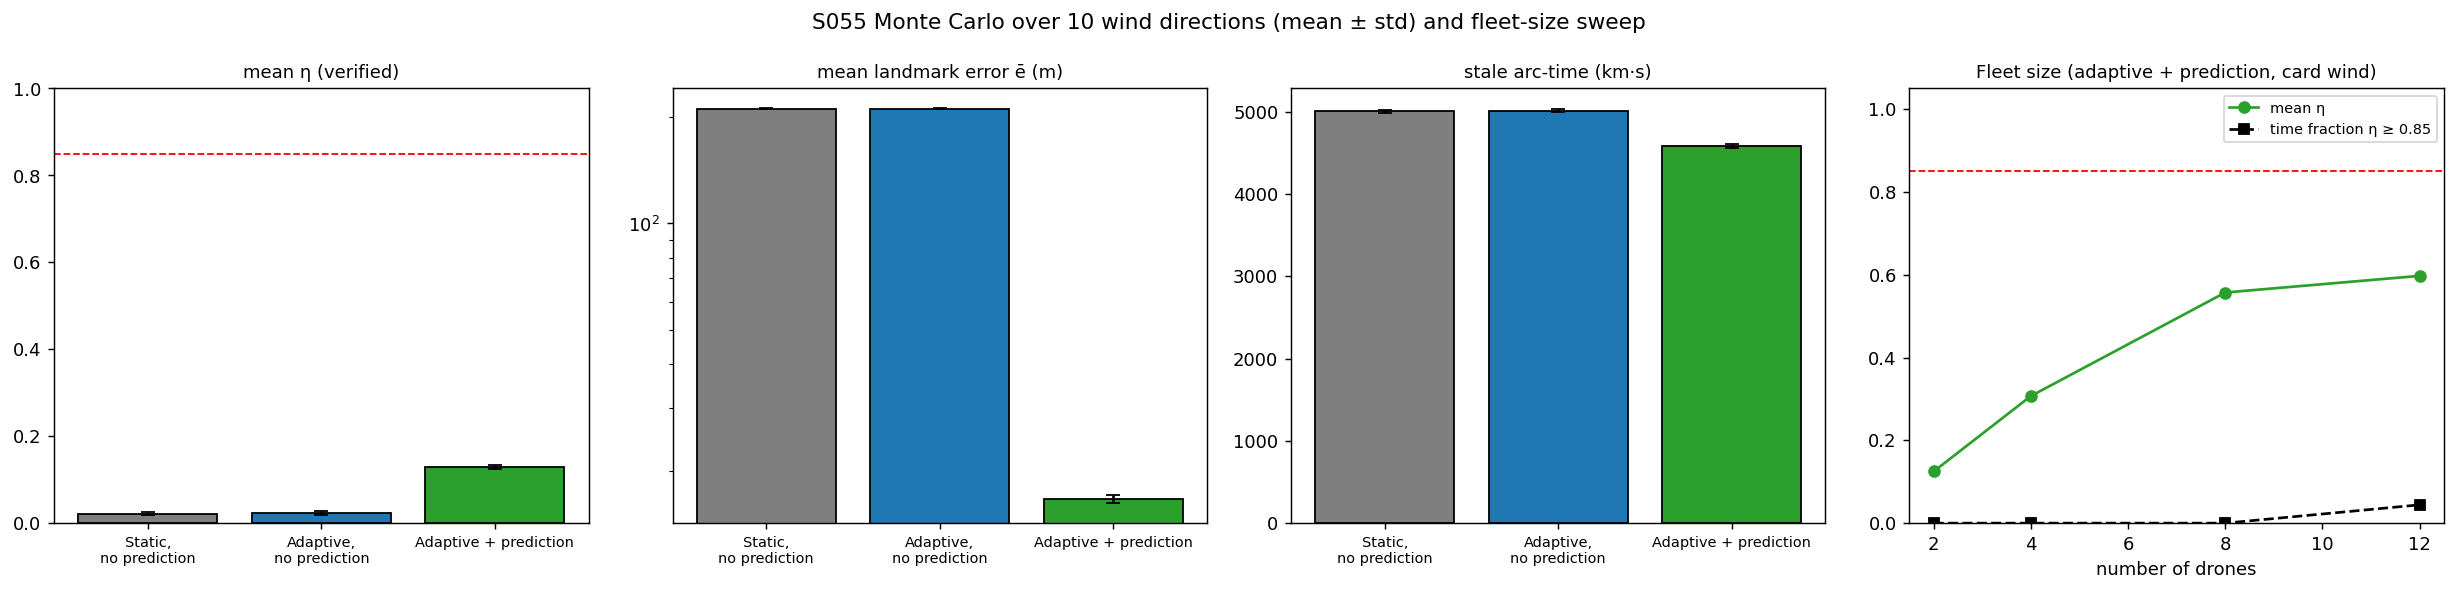
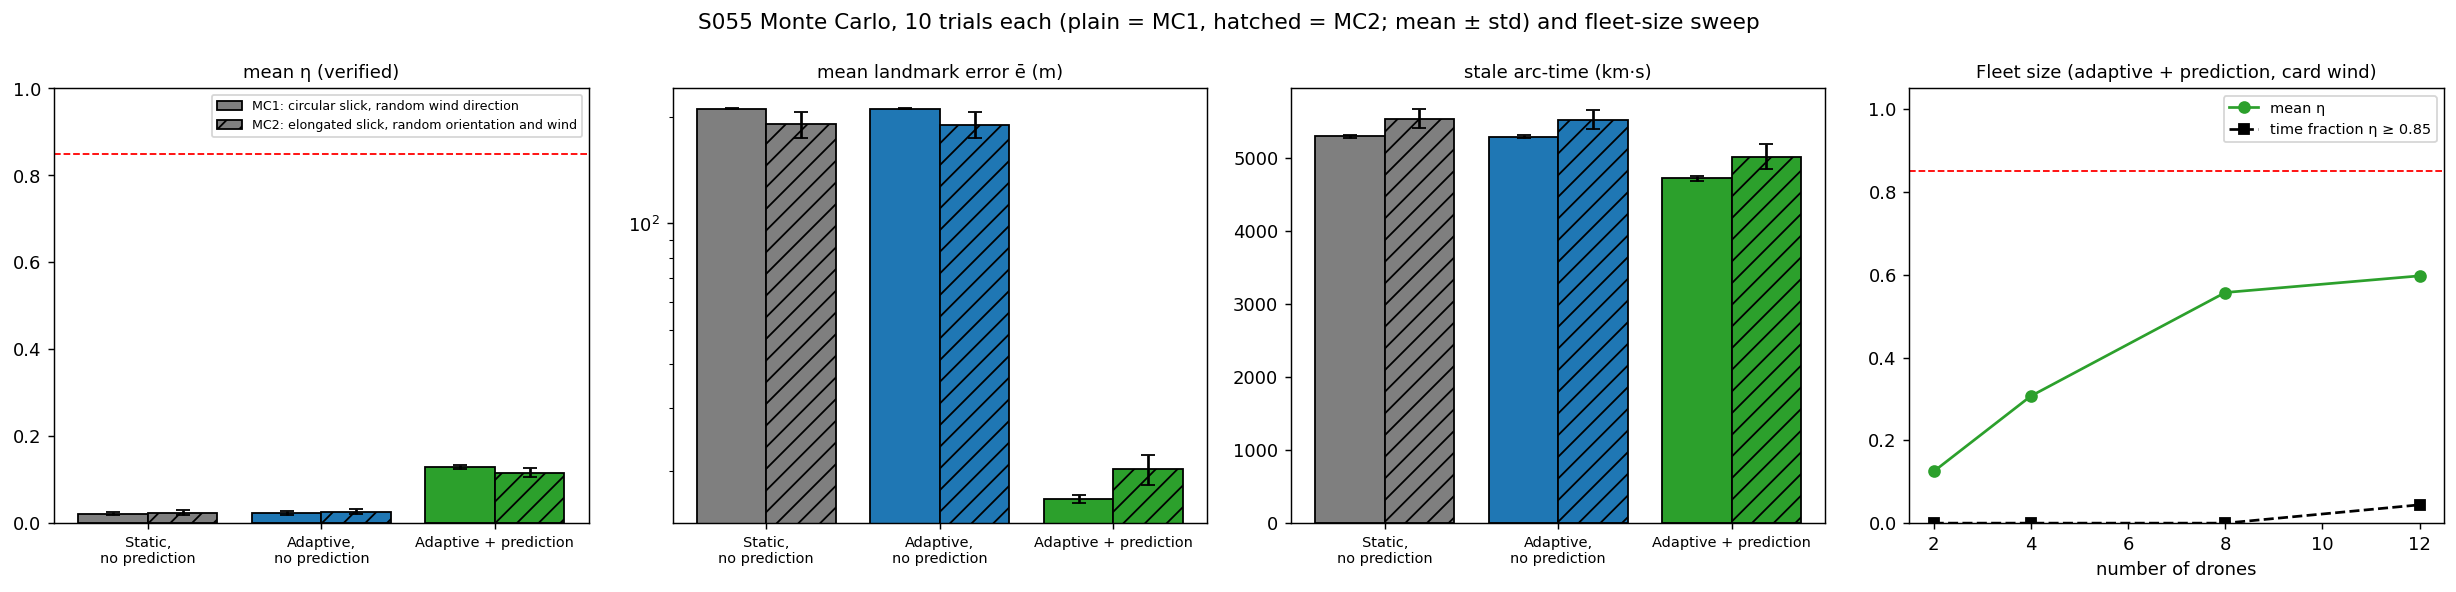
Fix S055 Coastline Oil Spill Tracking: address review follow-ups

diff --git a/src/03_environmental_sar/s055_oil_spill.py b/src/03_environmental_sar/s055_oil_spill.py
@@ -82,9 +82,13 @@ XS = (np.arange(GRID_N) + 0.5) * H_CELL
 
 # ── Spill field ───────────────────────────────────────────────────────────────
 
-def init_field():
+def init_field(shape=(1.0, 0.0)):
+    """Gaussian patch; shape = (axis factor f, orientation) gives semi-axes R0*f and R0/f."""
+    f, ang = shape
     X, Y = np.meshgrid(XS, XS, indexing='ij')                 # C[i, j]: i -> x, j -> y
-    return C0 * np.exp(-((X - X0[0]) ** 2 + (Y - X0[1]) ** 2) / (2 * R0 ** 2))
+    u = (X - X0[0]) * np.cos(ang) + (Y - X0[1]) * np.sin(ang)
+    w = -(X - X0[0]) * np.sin(ang) + (Y - X0[1]) * np.cos(ang)
+    return C0 * np.exp(-(u ** 2 / (2 * (R0 * f) ** 2) + w ** 2 / (2 * (R0 / f) ** 2)))
 
 
 def advance_field(C, u):
@@ -288,8 +292,8 @@ class Strategy:
         return float(np.sum(seg * ((t - last) <= T_STALE)) / np.sum(seg))
 
 
-def run_trial(u, rng_seed, sweep=False, record=False):
-    C = init_field()
+def run_trial(u, rng_seed, sweep=False, record=False, shape=(1.0, 0.0)):
+    C = init_field(shape)
     lm0 = resample_closed(truth_contour(C), N_LANDMARKS)
     configs = [(s, N_DRONES) for s in STRATS]
     if sweep:
@@ -355,7 +359,7 @@ def summarise(st):
         'eta_mean': float(lg['eta'].mean()), 'eta_nom_mean': float(lg['eta_nom'].mean()),
         'eta_frac_ok': float(np.mean(lg['eta'] >= ETA_TARGET)),
         'err_mean': float(lg['err'].mean()), 'err_final': float(lg['err'][-1]),
-        'stale_kms': float(np.sum((1 - lg['eta']) * lg['per_est']) * dt / 1000.0),
+        'stale_kms': float(np.sum((1 - lg['eta']) * lg['per_true']) * dt / 1000.0),
         'per_err_final': float(lg['per_est'][-1] - lg['per_true'][-1]),
         'n_meas': st.n_meas,
     }
@@ -374,7 +378,17 @@ def run_simulation():
         st, _, _ = run_trial(u, 100 + i)
         for s in STRATS:
             mc[s].append(summarise(st[(s, N_DRONES)]))
-    return main, sweep, mc, frames, true_log, angles
+    # second Monte Carlo: elongated slicks (breaks the rotational symmetry of the first one)
+    rng2 = np.random.default_rng(56)
+    shapes = [(float(rng2.uniform(1.0, 1.5)), float(rng2.uniform(0, np.pi)),
+               float(rng2.uniform(0, 2 * np.pi))) for _ in range(N_TRIALS)]
+    mc2 = {s: [] for s in STRATS}
+    for i, (f, ang, a) in enumerate(shapes):
+        u = speed * np.array([np.cos(a), np.sin(a)])
+        st, _, _ = run_trial(u, 200 + i, shape=(f, ang))
+        for s in STRATS:
+            mc2[s].append(summarise(st[(s, N_DRONES)]))
+    return main, sweep, (mc, mc2, shapes), frames, true_log, angles
 
 
 # ── Plotting ──────────────────────────────────────────────────────────────────
@@ -482,20 +496,26 @@ def plot_error(main, out_dir):
     _save(fig, out_dir, 'estimation_error.png')
 
 
-def plot_mc(mc, sweep, out_dir):
+def plot_mc(mc, mc2, sweep, out_dir):
     fig, axes = plt.subplots(1, 4, figsize=(19, 4.6))
     keys = [('eta_mean', 'mean η (verified)'), ('err_mean', 'mean landmark error ē (m)'),
             ('stale_kms', 'stale arc-time (km·s)')]
     for ax, (k, lab) in zip(axes[:3], keys):
         vals = [np.array([r[k] for r in mc[s]]) for s in STRATS]
-        ax.bar(range(3), [v.mean() for v in vals], yerr=[v.std() for v in vals],
-               color=[COLORS[s] for s in STRATS], edgecolor='k', capsize=4)
+        vals2 = [np.array([r[k] for r in mc2[s]]) for s in STRATS]
+        ax.bar(np.arange(3) - 0.2, [v.mean() for v in vals], 0.4, yerr=[v.std() for v in vals],
+               color=[COLORS[s] for s in STRATS], edgecolor='k', capsize=4,
+               label='MC1: circular slick, random wind direction')
+        ax.bar(np.arange(3) + 0.2, [v.mean() for v in vals2], 0.4, yerr=[v.std() for v in vals2],
+               color=[COLORS[s] for s in STRATS], edgecolor='k', hatch='//', capsize=4,
+               label='MC2: elongated slick, random orientation and wind')
         ax.set_xticks(range(3))
         ax.set_xticklabels([LABELS[s].replace(', ', ',\n') for s in STRATS], fontsize=8)
         ax.set_title(lab, fontsize=10)
         if k == 'eta_mean':
             ax.axhline(ETA_TARGET, color='red', ls='--', lw=1)
             ax.set_ylim(0, 1)
+            ax.legend(fontsize=7)
         if k == 'err_mean':
             ax.set_yscale('log')
     ks = sorted(sweep)
@@ -506,7 +526,7 @@ def plot_mc(mc, sweep, out_dir):
     axes[3].set_ylim(0, 1.05)
     axes[3].legend(fontsize=8)
     axes[3].set_title('Fleet size (adaptive + prediction, card wind)', fontsize=10)
-    fig.suptitle(f'S055 Monte Carlo over {N_TRIALS} wind directions (mean ± std) and fleet-size sweep')
+    fig.suptitle(f'S055 Monte Carlo, {N_TRIALS} trials each (plain = MC1, hatched = MC2; mean ± std) and fleet-size sweep')
     plt.tight_layout()
     _save(fig, out_dir, 'mc_comparison.png')
 
@@ -576,7 +596,7 @@ def save_animation(frames, main, out_dir):
 
 
 if __name__ == '__main__':
-    main, sweep, mc, frames, true_log, angles = run_simulation()
+    main, sweep, (mc, mc2, shapes), frames, true_log, angles = run_simulation()
     C = init_field()
     r_b0 = R0 * np.sqrt(2 * np.log(C0 / C_THR))
     sig_f = np.sqrt(R0 ** 2 + 2 * D_DIFF * T_MISSION)
@@ -592,9 +612,15 @@ if __name__ == '__main__':
     zz_factor = float(np.sum(np.linalg.norm(np.diff(zz, axis=0), axis=1)) / 1000.0)
     per = true_log[0][1]
     print(f'  Zig-zag path factor {zz_factor:.3f} -> along-boundary speed {V_ARC / zz_factor:.2f} m/s')
+    per1 = true_log[-1][1]
+    need = lambda P, v: ETA_TARGET * P / (v * T_STALE)
     print(f'  Fresh arc per drone in T_stale: {V_ARC / zz_factor * T_STALE:.0f} m; '
-          f'drones needed for eta = 0.85 on a {per:.0f} m boundary (one pass in T_stale): '
-          f'{ETA_TARGET * per / (V_ARC / zz_factor * T_STALE):.1f}')
+          f'drones needed for eta = 0.85 (one pass in T_stale): with the zig-zag '
+          f'{need(per, V_ARC / zz_factor):.1f} (t = 0 perimeter {per:.0f} m) to '
+          f'{need(per1, V_ARC / zz_factor):.1f} (final {per1:.0f} m); at the full {V_ARC:.0f} m/s without '
+          f'zig-zag {need(per, V_ARC):.1f} to {need(per1, V_ARC):.1f}')
+    print(f'  Drift per replanning epoch {np.linalg.norm(U_CARD) * T_REPLAN:.1f} m; '
+          f'half the t = 0 perimeter (one drone arc) {per / 2:.0f} m')
     print(f'  Random-walk filter process noise sigma_q = |u| sqrt(T_replan) = {SIGMA_Q_RW:.2f} m/s^0.5')
     print('  [Card wind, 2 drones]')
     for s in STRATS:
@@ -615,6 +641,21 @@ if __name__ == '__main__':
               f"crossings {a['n_meas'].mean():.0f}, mean error > {ZZ_AMP:.0f} m in "
               f"{int(np.sum(np.isfinite(a['t_lost'])))}/{N_TRIALS} trials "
               f"(first at {np.nanmean(a['t_lost']) if np.isfinite(a['t_lost']).any() else np.nan:.0f} s on average)")
+    print(f'  Monte Carlo 2 ({N_TRIALS} elongated slicks, axis factor U(1, 1.5), random orientation '
+          f'and wind direction):')
+    for s in STRATS:
+        a = {k: np.array([r[k] for r in mc2[s]]) for k in mc2[s][0]}
+        print(f"    {LABELS[s]:25s} eta {a['eta_mean'].mean():.3f} +- {a['eta_mean'].std():.3f}, "
+              f"error {a['err_mean'].mean():.1f} +- {a['err_mean'].std():.1f} m "
+              f"(final {a['err_final'].mean():.1f} +- {a['err_final'].std():.1f}), "
+              f"stale {a['stale_kms'].mean():.0f} +- {a['stale_kms'].std():.0f} km*s, "
+              f"crossings {a['n_meas'].mean():.0f}")
+    e2 = np.array([[r['err_mean'] for r in mc2[s]] for s in STRATS])
+    print('  MC2 lowest mean error: ' + ', '.join(f'{LABELS[s]} {int(np.sum(np.argmin(e2, 0) == i))}'
+                                                  for i, s in enumerate(STRATS)) + f' of {N_TRIALS}')
+    r_err = np.array([r['err_mean'] for r in mc['adaptive']]).mean() / \
+        np.array([r['err_mean'] for r in mc['predict']]).mean()
+    print(f'  MC1 mean error ratio adaptive (no prediction) / prediction: {r_err:.1f}x')
     e = np.array([[r['err_mean'] for r in mc[s]] for s in STRATS])
     h = np.array([[r['eta_mean'] for r in mc[s]] for s in STRATS])
     print('  Lowest mean error: ' + ', '.join(f'{LABELS[s]} {int(np.sum(np.argmin(e, 0) == i))}'
@@ -635,6 +676,6 @@ if __name__ == '__main__':
     plot_trajectories(main, frames, out)
     plot_coverage(main, None, out)
     plot_error(main, out)
-    plot_mc(mc, sweep, out)
+    plot_mc(mc, mc2, sweep, out)
     plot_spacetime_3d(main, frames, out)
     save_animation(frames, main, out)

diff --git a/outputs/03_environmental_sar/s055_oil_spill/README.md b/outputs/03_environmental_sar/s055_oil_spill/README.md
@@ -47,7 +47,7 @@ Strategies 2–3 split the 36 landmarks into two contiguous arcs of equal estima
 
 $$\eta(t) = \frac{\sum_k \ell_k\,\mathbf{1}[t - t_k^{last} \le 60\ \text{s}]}{\sum_k \ell_k}$$
 
-with $t_k^{last}$ the time of the last **crossing measurement** associated with landmark $k$ ("verified"). The card's version, which counts any sample within 30 m of the estimated landmark, is reported as "nominal". The estimation error $\bar e(t)$ is the mean distance from the estimated landmarks to the true contour. The stale arc-time is $\int (1 - \eta) L\,dt$.
+with $t_k^{last}$ the time of the last **crossing measurement** associated with landmark $k$ ("verified"). The card's version, which counts any sample within 30 m of the estimated landmark, is reported as "nominal". The estimation error $\bar e(t)$ is the mean distance from the estimated landmarks to the true contour. The stale arc-time is $\int (1 - \eta) L_{true}\,dt$, with the true perimeter (so a strategy that underestimates the perimeter gets no credit for it).
 
 ---
 
@@ -68,7 +68,8 @@ with $t_k^{last}$ the time of the last **crossing measurement** associated with 
 | Zig-zag half-width / wavelength (added) | 25 m / 100 m |
 | GPS noise on a crossing (added) | 3 m |
 | $\sigma_q$ of the no-prediction filter (added) | $|\mathbf{u}|\sqrt{T_{replan}}$ = 2.34 m/s$^{1/2}$ |
-| Monte Carlo (card) | 10 trials, wind direction uniform in [0, 2π), |u| = 0.427 m/s; same truth for every strategy |
+| Monte Carlo (card) | MC1: 10 trials, wind direction uniform in [0, 2π), |u| = 0.427 m/s; same truth for every strategy |
+| Second Monte Carlo (added) | MC2: 10 elongated slicks, semi-axes $R_0 f$ and $R_0/f$ with $f$ ~ U(1, 1.5), random orientation and wind direction |
 | Fleet-size sweep (added) | 2, 4, 8, 12 drones, prediction strategy, card wind |
 
 ---
@@ -84,7 +85,7 @@ conda activate drones
 python src/03_environmental_sar/s055_oil_spill.py
 ```
 
-Runtime ≈ 35–45 s (measured with other simulations running in parallel).
+Runtime ≈ 45–50 s (measured with other simulations running in parallel).
 
 ---
 
@@ -96,21 +97,31 @@ The true perimeter grows from 2826 m to 3137 m.
 
 | Strategy | Mean η (verified) | Mean η (nominal, card) | Time with η ≥ 0.85 | Mean error ē | Final error | Error > 25 m from | Stale arc-time | Final perimeter error | Crossings |
 |----------|------:|------:|------:|------:|------:|------:|------:|------:|------:|
-| Static, no prediction | 0.015 | 0.251 | 0.0 % | 211.6 m | 384.7 m | 100 s | 5033 km·s | −297 m | 19 |
-| Adaptive, no prediction | 0.017 | 0.251 | 0.0 % | 212.1 m | 385.4 m | 100 s | 5035 km·s | −298 m | 19 |
-| **Adaptive + prediction** | **0.125** | 0.239 | 0.0 % | **16.4 m** | **31.2 m** | 1480 s | **4612 km·s** | **−133 m** | **177** |
+| Static, no prediction | 0.015 | 0.251 | 0.0 % | 211.6 m | 384.7 m | 100 s | 5332 km·s | −297 m | 19 |
+| Adaptive, no prediction | 0.017 | 0.251 | 0.0 % | 212.1 m | 385.4 m | 100 s | 5325 km·s | −298 m | 19 |
+| **Adaptive + prediction** | **0.125** | 0.239 | 0.0 % | **16.4 m** | **31.2 m** | 1480 s | **4745 km·s** | **−133 m** | **177** |
 
-### Monte Carlo (10 wind directions)
+### Monte Carlo 1 (10 wind directions, circular slick)
 
 Wind directions: 300, 313, 79, 83, 177, 271, 254, 341, 24, 177°.
 
 | Strategy | Mean η (verified) | Nominal η | Mean error ē | Final error | Stale arc-time | Crossings | Error > 25 m |
 |----------|------:|------:|------:|------:|------:|------:|------:|
-| Static, no prediction | 0.022 ± 0.003 | 0.252 | 210.9 ± 0.8 m | 384.6 ± 0.5 m | 5008 ± 18 km·s | 28 | 10/10 trials, first at 103 s |
-| Adaptive, no prediction | 0.023 ± 0.004 | 0.251 | 211.1 ± 0.5 m | 384.7 ± 0.5 m | 5014 ± 18 km·s | 29 | 10/10 trials, first at 101 s |
-| **Adaptive + prediction** | **0.129 ± 0.006** | 0.239 | **16.6 ± 0.5 m** | 31.6 ± 1.1 m | **4583 ± 25 km·s** | 182 | 10/10 trials, first at 1436 s |
+| Static, no prediction | 0.022 ± 0.003 | 0.252 | 210.9 ± 0.8 m | 384.6 ± 0.5 m | 5298 ± 16 km·s | 28 | 10/10 trials, first at 103 s |
+| Adaptive, no prediction | 0.023 ± 0.004 | 0.251 | 211.1 ± 0.5 m | 384.7 ± 0.5 m | 5291 ± 21 km·s | 29 | 10/10 trials, first at 101 s |
+| **Adaptive + prediction** | **0.129 ± 0.006** | 0.239 | **16.6 ± 0.5 m** | 31.6 ± 1.1 m | **4723 ± 30 km·s** | 182 | 10/10 trials, first at 1436 s |
 
-Adaptive + prediction has the lowest mean error and the highest mean η in 10/10 trials. No strategy reaches a mean η ≥ 0.85 in any trial.
+Adaptive + prediction has the lowest mean error and the highest mean η in 10/10 trials. No strategy reaches a mean η ≥ 0.85 in any trial. The initial slick is circular and isotropic, so rotating the wind is close to a symmetry of the problem; the small spread (± 0.5 m) mostly reflects that, not robustness.
+
+### Monte Carlo 2 (10 elongated slicks, random orientation and wind direction)
+
+| Strategy | Mean η (verified) | Mean error ē | Final error | Stale arc-time | Crossings |
+|----------|------:|------:|------:|------:|------:|
+| Static, no prediction | 0.024 ± 0.006 | 190.5 ± 15.7 m | 368.3 ± 16.9 m | 5543 ± 130 km·s | 30 |
+| Adaptive, no prediction | 0.026 ± 0.006 | 190.2 ± 15.8 m | 368.0 ± 16.8 m | 5530 ± 130 km·s | 33 |
+| **Adaptive + prediction** | **0.116 ± 0.010** | **20.2 ± 2.0 m** | 37.8 ± 3.4 m | **5023 ± 168 km·s** | 165 |
+
+Adaptive + prediction again has the lowest mean error in 10/10 trials. On non-circular slicks its error is larger (20.2 m vs 16.6 m) and varies more between trials, but the ranking does not change.
 
 ### Fleet-size sweep (adaptive + prediction, card wind)
 
@@ -121,9 +132,9 @@ Adaptive + prediction has the lowest mean error and the highest mean η in 10/10
 | Mean error ē | 16.4 m | 12.0 m | 9.8 m | 10.2 m |
 
 **Key findings**:
-- **The 0.85 coverage target is out of reach for two drones** (card objective not met by any strategy). The zig-zag needed to cross the boundary leaves 5.47 m/s of along-boundary speed, so one drone refreshes at most 328 m of boundary within $T_{stale}$ = 60 s, while the boundary is 2826–3137 m long. Even if every pass produced a measurement at every landmark, about 7.3 drones would be needed. In the simulation, the best strategy reaches a mean η of 0.125 with 2 drones, 0.557 with 8 and 0.597 with 12, still below 0.85. Not every crossing falls within 30 m of a landmark, and back-and-forth patrols revisit the arc ends only half as often.
-- **Without a drift model the boundary is lost within about 100 s**, and replanning on the estimate does not help. The slick moves 13 m per epoch, but a drone returns to the same point of its 1.4 km arc only every few minutes. By then the boundary has moved further than the ±25 m zig-zag reaches, no crossings occur, and the filter has nothing to correct. After 19 crossings (28–29 in the Monte Carlo), the static and adaptive estimates freeze near the $t = 0$ boundary, and the error grows to 385 m. The two no-prediction strategies are practically identical: their curves overlap in every plot.
-- **Prediction is what makes tracking work.** With the known drift, the planned path moves with the slick. The drones keep crossing the boundary (177 crossings), and the mean error stays at 16.4 m (16.6 ± 0.5 m over 10 wind directions), 13× lower than without prediction. The remaining error grows slowly (31.2 m at the end), because the filter models drift but not diffusive growth. The estimated perimeter ends 133 m short of the truth (no-prediction: 297 m short).
+- **The 0.85 coverage target is out of reach for two drones** (card objective not met by any strategy). The zig-zag needed to cross the boundary leaves 5.47 m/s of along-boundary speed, so one drone refreshes at most 328 m of boundary within $T_{stale}$ = 60 s, while the boundary is 2826–3137 m long. Even if every pass produced a measurement at every landmark, 7.3 drones (for the 2826 m initial perimeter) to 8.1 drones (3137 m final perimeter) would be needed; without the zig-zag, at the full 8 m/s, the bound would be 5.0–5.6 drones. In the simulation, the best strategy reaches a mean η of 0.125 with 2 drones, 0.557 with 8 and 0.597 with 12, still below 0.85. Not every crossing falls within 30 m of a landmark, and back-and-forth patrols revisit the arc ends only half as often.
+- **Without a drift model the boundary is lost within about 100 s**, and replanning on the estimate does not help. The slick moves 12.8 m per epoch, but a drone returns to the same point of its 1413 m arc only every few minutes. By then the boundary has moved further than the ±25 m zig-zag reaches, no crossings occur, and the filter has nothing to correct. After 19 crossings (28–29 in the Monte Carlo), the static and adaptive estimates freeze near the $t = 0$ boundary, and the error grows to 385 m. The two no-prediction strategies are practically identical: their curves overlap in every plot.
+- **Prediction is what makes tracking work.** With the known drift, the planned path moves with the slick. The drones keep crossing the boundary (177 crossings), and the mean error stays at 16.4 m (16.6 ± 0.5 m over 10 wind directions, 12.7× lower than without prediction; 20.2 ± 2.0 m on elongated slicks). The remaining error grows slowly (31.2 m at the end), because the filter models drift but not diffusive growth. The estimated perimeter ends 133 m short of the truth (no-prediction: 297 m short).
 - **The card's coverage metric is not discriminative.** Counting any sample within 30 m of an estimated landmark gives η ≈ 0.24–0.25 for all three strategies, including the static one whose estimate is 385 m off. The drones always fly over their own estimate, so this metric measures where the drones are, not whether they see the spill. The verified η (crossings only) separates the strategies.
 
 ### Spill Evolution
@@ -152,7 +163,7 @@ Mean landmark error with ±1 std band (log scale), mean Kalman covariance trace,
 
 ### Monte Carlo and Fleet Size
 
-Mean ± std over 10 wind directions, and the fleet-size sweep:
+Mean ± std over the two Monte Carlo sets (plain = MC1 circular slick, hatched = MC2 elongated slick), and the fleet-size sweep:
 
 ![MC Comparison](./mc_comparison.png)
 
@@ -181,7 +192,7 @@ Adaptive + prediction: concentration field, truth (red) and estimate (white), th
 | Static strategy: "patrols its fixed semicircle at constant angular speed" | Back-and-forth patrol of the $t = 0$ half-boundary, same zig-zag | Same patrol model for all strategies, so only planning and prediction differ. |
 | Drones deploy from a shore base | Drones start on the boundary at $t = 0$ | The transit is the same for every strategy and is not part of the tracking comparison. |
 | Card code: `np.interp(d, ...)` in `extract_boundary_landmarks` | Uses `sample_d` (card corrected); contours from `contourpy`; landmarks ordered counter-clockwise | `d` is undefined in the card code. |
-| Monte Carlo of 10 random wind directions | Same, plus a fleet-size sweep (2–12 drones) | The sweep shows how far the target is from reach. |
+| Monte Carlo of 10 random wind directions | Same (MC1), plus 10 elongated slicks (MC2) and a fleet-size sweep (2–12 drones) | Wind direction alone is nearly a symmetry for a circular slick; MC2 varies the slick shape. The sweep shows how far the target is from reach. |
 
 ---
 
